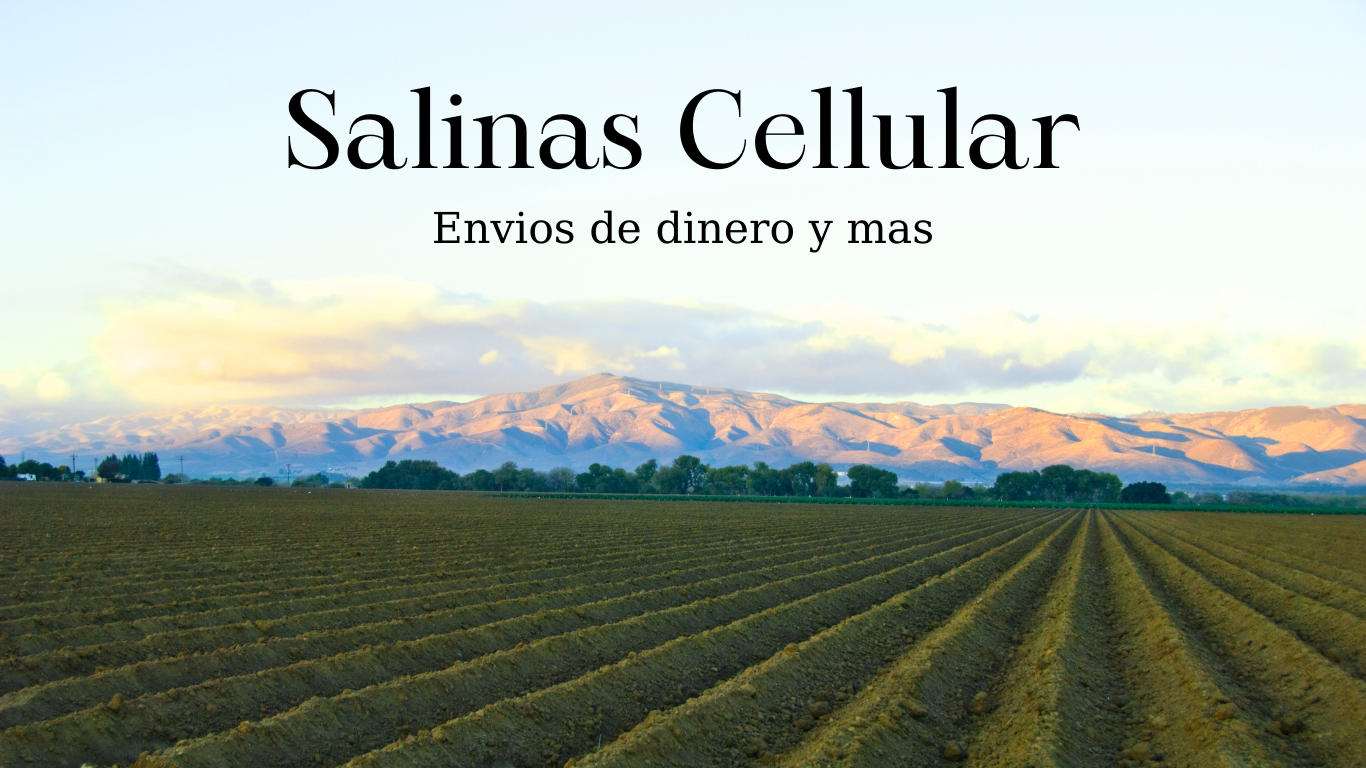
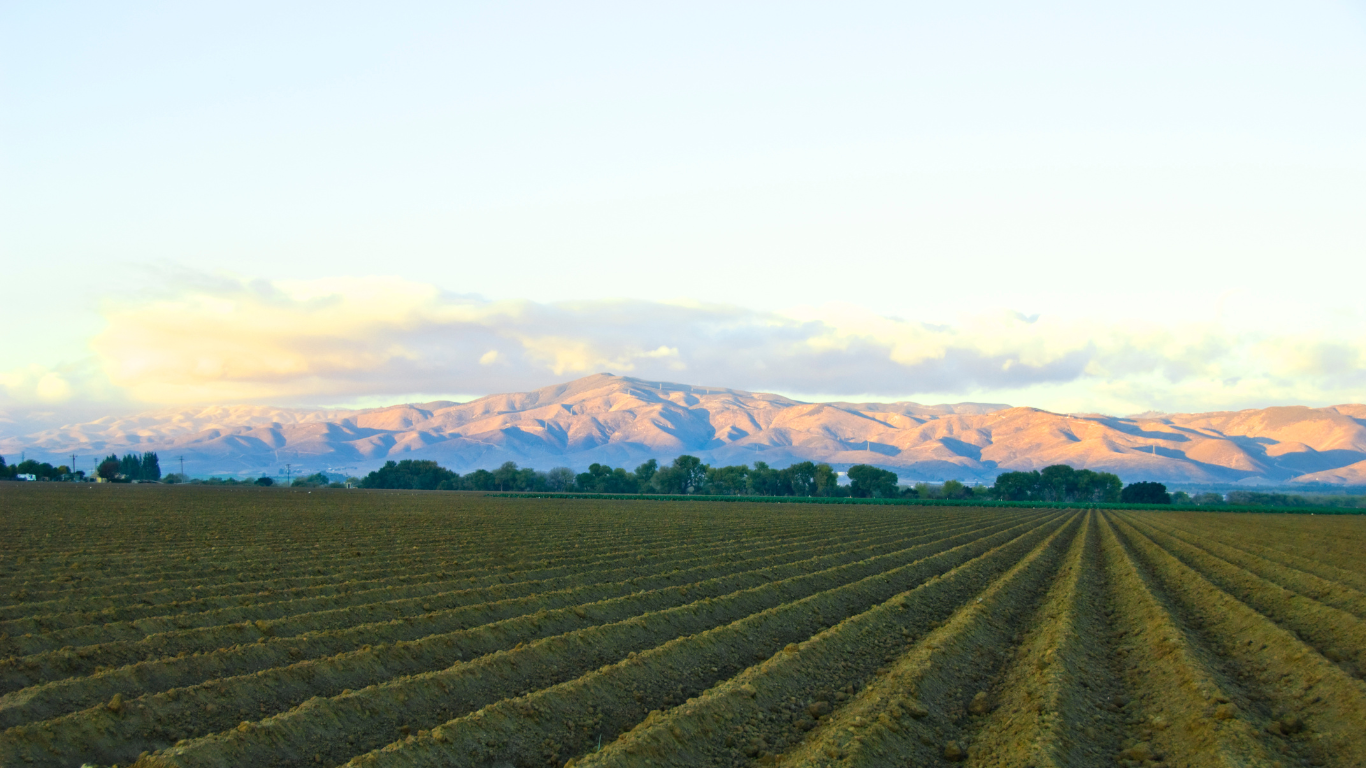
Finish Home

Changed region(s): [[0.1845, 0.0938, 0.7994, 0.2188], [0.3075, 0.2812, 0.6764, 0.3438]]

diff --git a/front_end/src/Views/Home.js b/front_end/src/Views/Home.js
@@ -1,0 +1,121 @@
+import React from "react";
+import { FontAwesomeIcon } from "@fortawesome/react-fontawesome";
+import { faCertificate} from "@fortawesome/free-solid-svg-icons";
+import telBack from "../img/telBack.png";
+import ButtonHome from "../Components/ButtonHome.js";
+import Cricket from "../img/Cricket.png";
+import Att from "../img/att.jpg";
+import Boost from "../img/Boost.png";
+import Jbl from "../img/jbl.png";
+
+export default function Home() {
+    return (
+        <section style = {{fontFamily: 'Helvetica Neue'}}>
+            <div className = "w-screen bg-pageb bg-no-repeat bg-center bg-cover h-[550px] relative">
+                <div className=" absolute w-full top-1/3 lg:top-1/2">
+                    <div className=" flex justify-center lg:p-0 p-5 text-center">
+                        <div className=" bg-[#FFFFFF] shadow-md lg:shadow-lg rounded-full flex py-2 w-full space-x-4 lg:space-x-6 justify-center place-items-center text-center lg:w-[550px] lg:py-7">
+                            <FontAwesomeIcon className=" lg:text-4xl text-orange-400" icon={faCertificate} />
+                            <span style={{fontFamily: "Arial"}}  className=" tracking-wide font-bold text-2xl lg:text-4xl ">Salinas Cellular</span>
+                        </div>
+                    </div>
+                </div>
+            </div>
+            <div className=" bg-black w-screen p-6 lg:p-12 text-white">
+                <div className=" flex flex-col text-center justify-center space-y-5 lg:space-y-8">
+                    <div className="">
+                        <span className=" tracking-normal leading-none font-bold text-4xl lg:text-7xl capitalize">servicios de dinero</span>
+                    </div>
+                    <div className=" flex justify-center">
+                        <div className="lg:w-1/3">
+                            <span className=" tracking-tight text-xl lg:text-4xl">
+                                Podemos enviar a diferentes empresas en México, hasta 25 compañías distintas como Elektra, Bancoppel y más
+                            </span>
+                        </div>
+                    </div>
+                    <ButtonHome name = "Mande con nosotros" />
+                </div>
+            </div>
+            <div className=" bg-white lg:py-12 lg:px-24">
+                <div className=" grid lg:grid-cols-2 lg:gap-6">
+                    <div className=" flex flex-col py-6 lg:py-16 space-y-4 lg:space-y-6">
+                        <div className=" text-center">
+                            <h1 className="tracking-normal leading-none font-bold text-4xl lg:text-7xl capitalize">Telefonos liberados</h1>
+                        </div>
+                       <div className=" text-center lg:px-0 px-8">
+                            <span className=" text-xl lg:text-2xl">
+                                Descubre nuestra exclusiva colección de teléfonos de última generación, incluyendo iPhones, 
+                                Samsungs y Motorolas, y enriquece tu experiencia tecnológica con nuestra amplia gama de 
+                                accesorios únicos para todo tipo de dispositivos.
+                            </span>
+                       </div>
+                        <ButtonHome name = "Seleccion de Telefonos" />
+                    </div>
+                    <div className=" flex">
+                        <img src={telBack} />
+                    </div>
+                </div>
+            </div>
+            <div className=" bg-black p-6 text-center space-y-2 lg:space-y-8 text-white">
+                <h1 className=" lg:mt-4 tracking-normal leading-none font-bold text-4xl lg:text-7xl capitalize">Boost mobile cricket & AT&T</h1>
+                <div className=" flex justify-center">
+                    <div className=" grid lg:grid-cols-2 lg:gap-12 max-w-screen-lg">
+                        <div className=" grid grid-cols-2 p-6 gap-2 lg:gap-4">
+                            <div className=" flex flex-col space-y-2 lg:space-y-4">
+                                <img className=" rounded-lg" src={Cricket} />
+                                <img className=" rounded-lg" src={Att} />
+                            </div>
+                            <div className=" flex items-center">
+                                <img className=" rounded-full" src={Boost} />
+                            </div>
+                        </div>
+                        <div className=" flex lg:space-y-4 flex-col justify-center">
+                            <ButtonHome name = "Seleccion de Servicios" />
+                            <span className=" text-xl lg:text-2xl">
+                                ¡Ven y descubre la comodidad de activar y adquirir teléfonos con nosotros, 
+                                ofreciendo opciones de operadoras 
+                                líderes como Cricket, Boost Mobile y AT&T, todo en un solo lugar para tu conveniencia!
+                            </span>                        
+                        </div>
+                    </div>
+                </div>
+            </div>
+            <div className=" bg-white lg:py-12 lg:px-24">
+                <div className=" grid lg:grid-cols-2 lg:gap-6">
+                    <div className=" flex">
+                        <img src={Jbl} />
+                    </div>
+                    <div className=" flex flex-col py-6 lg:py-16 space-y-2 lg:space-y-4">
+                        <div className="">
+                            <h1 className="tracking-normal leading-none font-bold text-4xl lg:text-7xl capitalize text-center">JBL</h1>
+                        </div>
+                       <div className=" flex justify-center">
+                            <div className="text-center lg:px-0 px-6 lg:w-3/4">
+                                <span className=" text-xl lg:text-2xl">
+                                    Explora lo último en sonido con nuestra gama de altavoces y auriculares JBL, y más, 
+                                    ¡perfectos para elevar tu experiencia auditiva a un nivel superior
+                                </span>
+                            </div>
+                       </div>
+                        <ButtonHome name = "Seleccion de bocinas" />
+                    </div>
+                </div>
+            </div>
+            <div className=" bg-pagebg w-screen relative bg-center h-[400px] lg:h-[550px] bg-cover bg-no-repeat"></div>
+            <div className=" bg-white py-6 px-2 lg:py-12 lg:px-24">
+                <div className=" flex flex-col space-y-4 lg:space-y-6 lg:justify-center text-center">
+                    <h1 className="tracking-normal leading-none font-bold text-4xl lg:text-7xl capitalize text-center">Donde Estamos?</h1>
+                    <div className=" flex justify-center">
+                        <div className=" lg:w-1/3 lg:px-0 px-5 text-center">
+                            <span className="text-xl lg:text-2xl">
+                                Bienvenidos a Salinas Cellular! Ubicados en 
+                                549 E Market St, Salinas, CA 93906, 
+                                somos tu destino ideal para todas tus necesidades de telefonía móvil.
+                            </span>
+                        </div>
+                    </div>
+                </div>
+            </div>
+        </section>
+    )
+}

diff --git a/front_end/src/App.js b/front_end/src/App.js
@@ -1,103 +1,11 @@
-import logo from './logo.svg';
-import AppData from './Data/AppData.js';
 import './App.css';
 import Footer from './Footer.js';
-import hpic from './img/Screenshot 2023-11-24 132812.png';
-import DropDown from './Components/DropDown';
+import Home from './Views/Home.js';
 
 function App() {
   return (
     <main className='relative overflow-x-hidden'>
-
-      <div className = "w-screen bg-pagebp lg:bg-pageb bg-no-repeat bg-center bg-cover h-screen relative">
-      </div>
-
-      <div className="mx-auto space-y-2 px-2 py-8 lg:py-12 bg-white/90">
-        <div className='text-center'>
-          <h1 className = "text-xl lg:text-3xl italic font-Monterast capitalize font-bold">Dirección de Salinas Cellular</h1>
-        </div>
-        <div className='grid grid-cols-1 lg:grid-cols-2'>
-          <div className=' overflow-hidden'>
-            <img className='w-full h-full hover:scale-110 cursor-pointer ease-in-out transition-all duration-1000' src={hpic} />
-          </div>
-          <div>
-            <iframe className='w-full p-2 lg:p-5 h-full' style={{border: "0"}} src="https://www.google.com/maps/embed?pb=!1m18!1m12!1m3!1d3199.882570445944!2d-121.63840842372078!3d36.67732437228234!2m3!1f0!2f0!3f0!3m2!1i1024!2i768!4f13.1!3m3!1m2!1s0x808df8991de3fe57%3A0x17c3593185b0e5a2!2s549%20E%20Market%20St%2C%20Salinas%2C%20CA%2093905!5e0!3m2!1sen!2sus!4v1700866834600!5m2!1sen!2sus"  allowfullscreen="" loading="lazy" referrerpolicy="no-referrer-when-downgrade"></iframe>
-          </div>
-        </div>
-      </div>
-
-      <div className="mx-auto space-y-6 py-8 px-4 lg:py-12 bg-[#333B29]">
-        <div className='text-center text-white space-y-2'>
-          <h1 className = "text-xl lg:text-3xl italic font-Monterast capitalize font-bold">Tipo de Cambio Hoy Dia</h1>
-          <h2 className = "text-md lg:text-lg italic font-Roboto tracking-wider capitalize font-bold">*En Cantidad de $500 mas de $500 Varea el Tipo de Cambio!</h2>
-        </div>
-        <div className=' justify-center flex'>
-          <DropDown />
-        </div>
-        <div className = "flex text-white capitalize font-Monterast text-lg tracking-wider justify-center items-center">
-            <div className = "grid grid-cols-2">
-              {AppData.map((a , index) => (
-                <>
-                  <div key = {index} className = "border-2 px-12 py-4 text-center italic">{a.name}</div>
-                  <div key = {index} className = "border-2 px-12 py-4 text-center">{a.price}</div>
-                </>
-              ))}
-            </div>
-        </div>
-      </div>
-
-      <div className="mx-auto py-8 px-4 lg:py-12 bg-white">
-
-        <div className='text-center text-black space-y-2'>
-          <h1 className = "text-2xl lg:text-4xl italic font-Monterast capitalize font-bold">quién somos</h1>
-        </div>
-
-        <div className=" mb-4 md:mb-12 mx-auto max-w-screen-xl cursor-pointer">
-                <div className="grid grid-cols-1 text-justify md:gap-8">
-                    <div className="col-span-2 group p-4 space-y-4 lg:space-y-8">
-                        {/* <img className=" ease-in-out transition-opacity duration-150 delay-150 group-hover:opacity-60" src={hpic}></img> */}
-                    </div>
-                    <div className="p-4 space-y-4 lg:space-y-8 lg:text-justify lg:grid justify-center text-center">
-                        <div className=" lg:flex lg:justify-center lg:items-center">
-                            <div className="grid grid-cols-1 space-y-5">
-                                <div className="">
-                                   <ul className="space-y-2 text-xl font-Catamaran">
-                                        <li>
-                                            <a className="transition text-black " target="_blank"  rel="noreferrer" href = "https://www.google.com/maps/dir//549+E+Market+St+Salinas,+CA+93905/@36.6773244,-121.6358335,17z/data=!4m8!4m7!1m0!1m5!1m1!1s0x808df8991de3fe57:0x17c3593185b0e5a2!2m2!1d-121.6358335!2d36.6773244?entry=ttu">
-                                              Ubicación: 549 E Market St, Salinas, CA 93905
-                                            </a>
-                                        </li>
-                                        <li>
-                                            <a className="transition text-black " href="tel:8317588178">
-                                                Telefono#: (831) 758-8178
-                                            </a>
-                                        </li>
-                                   </ul>
-                                </div>
-                                <hr></hr>
-                                <div>
-                                    <div className="font-semibold text-xl font-Catamaran">Horario:</div>
-                                    <ul className="space-y-4 text-lg mt-4">
-                                        <li>
-                                            <span className="">
-                                                Lunes - Sabado: 10:00 am - 07:00 pm
-                                            </span>
-                                        </li>
-                                        
-                                        <li>
-                                            <span href="" className=" transition">
-                                                Domingo: 10:00 am - 06:00 pm
-                                            </span>
-                                        </li>
-                                    </ul>
-                                </div>
-                            </div>
-                            
-                        </div>
-                    </div>
-                </div>
-            </div>
-      </div>
+      <Home />
       <Footer />
     </main>
   );

diff --git a/front_end/src/Components/ButtonHome.js b/front_end/src/Components/ButtonHome.js
@@ -1,0 +1,11 @@
+import React from "react";
+
+export default function ButtonHome(props){
+    return (
+        <div className=" flex p-5 text-white justify-center">
+            <button className=" lg:px-12 lg:py-5 rounded-full px-6 py-3 shadow-md lg:shadow-lg text-2xl lg:text-4xl bg-gradient-to-r from-[#0D00D6] to-[#F287C8]">
+                {props.name}                            
+            </button>
+        </div>
+    )
+};

diff --git a/front_end/tailwind.config.js b/front_end/tailwind.config.js
@@ -37,6 +37,7 @@ module.exports = {
       backgroundImage: {
         'pageb': "url('/src/img/1.png')",
         'pagebp': "url('/src/img/4.png')",
+        'pagebg' : "url('/src/img/img1.png')",
       }
     },
   },

diff --git a/front_end/src/Components/Data/AppData.js b/front_end/src/Components/Data/AppData.js
@@ -1,4 +1,4 @@
-import App from "../App"
+import App from "../../App"
 
 const AppData = [
     {
